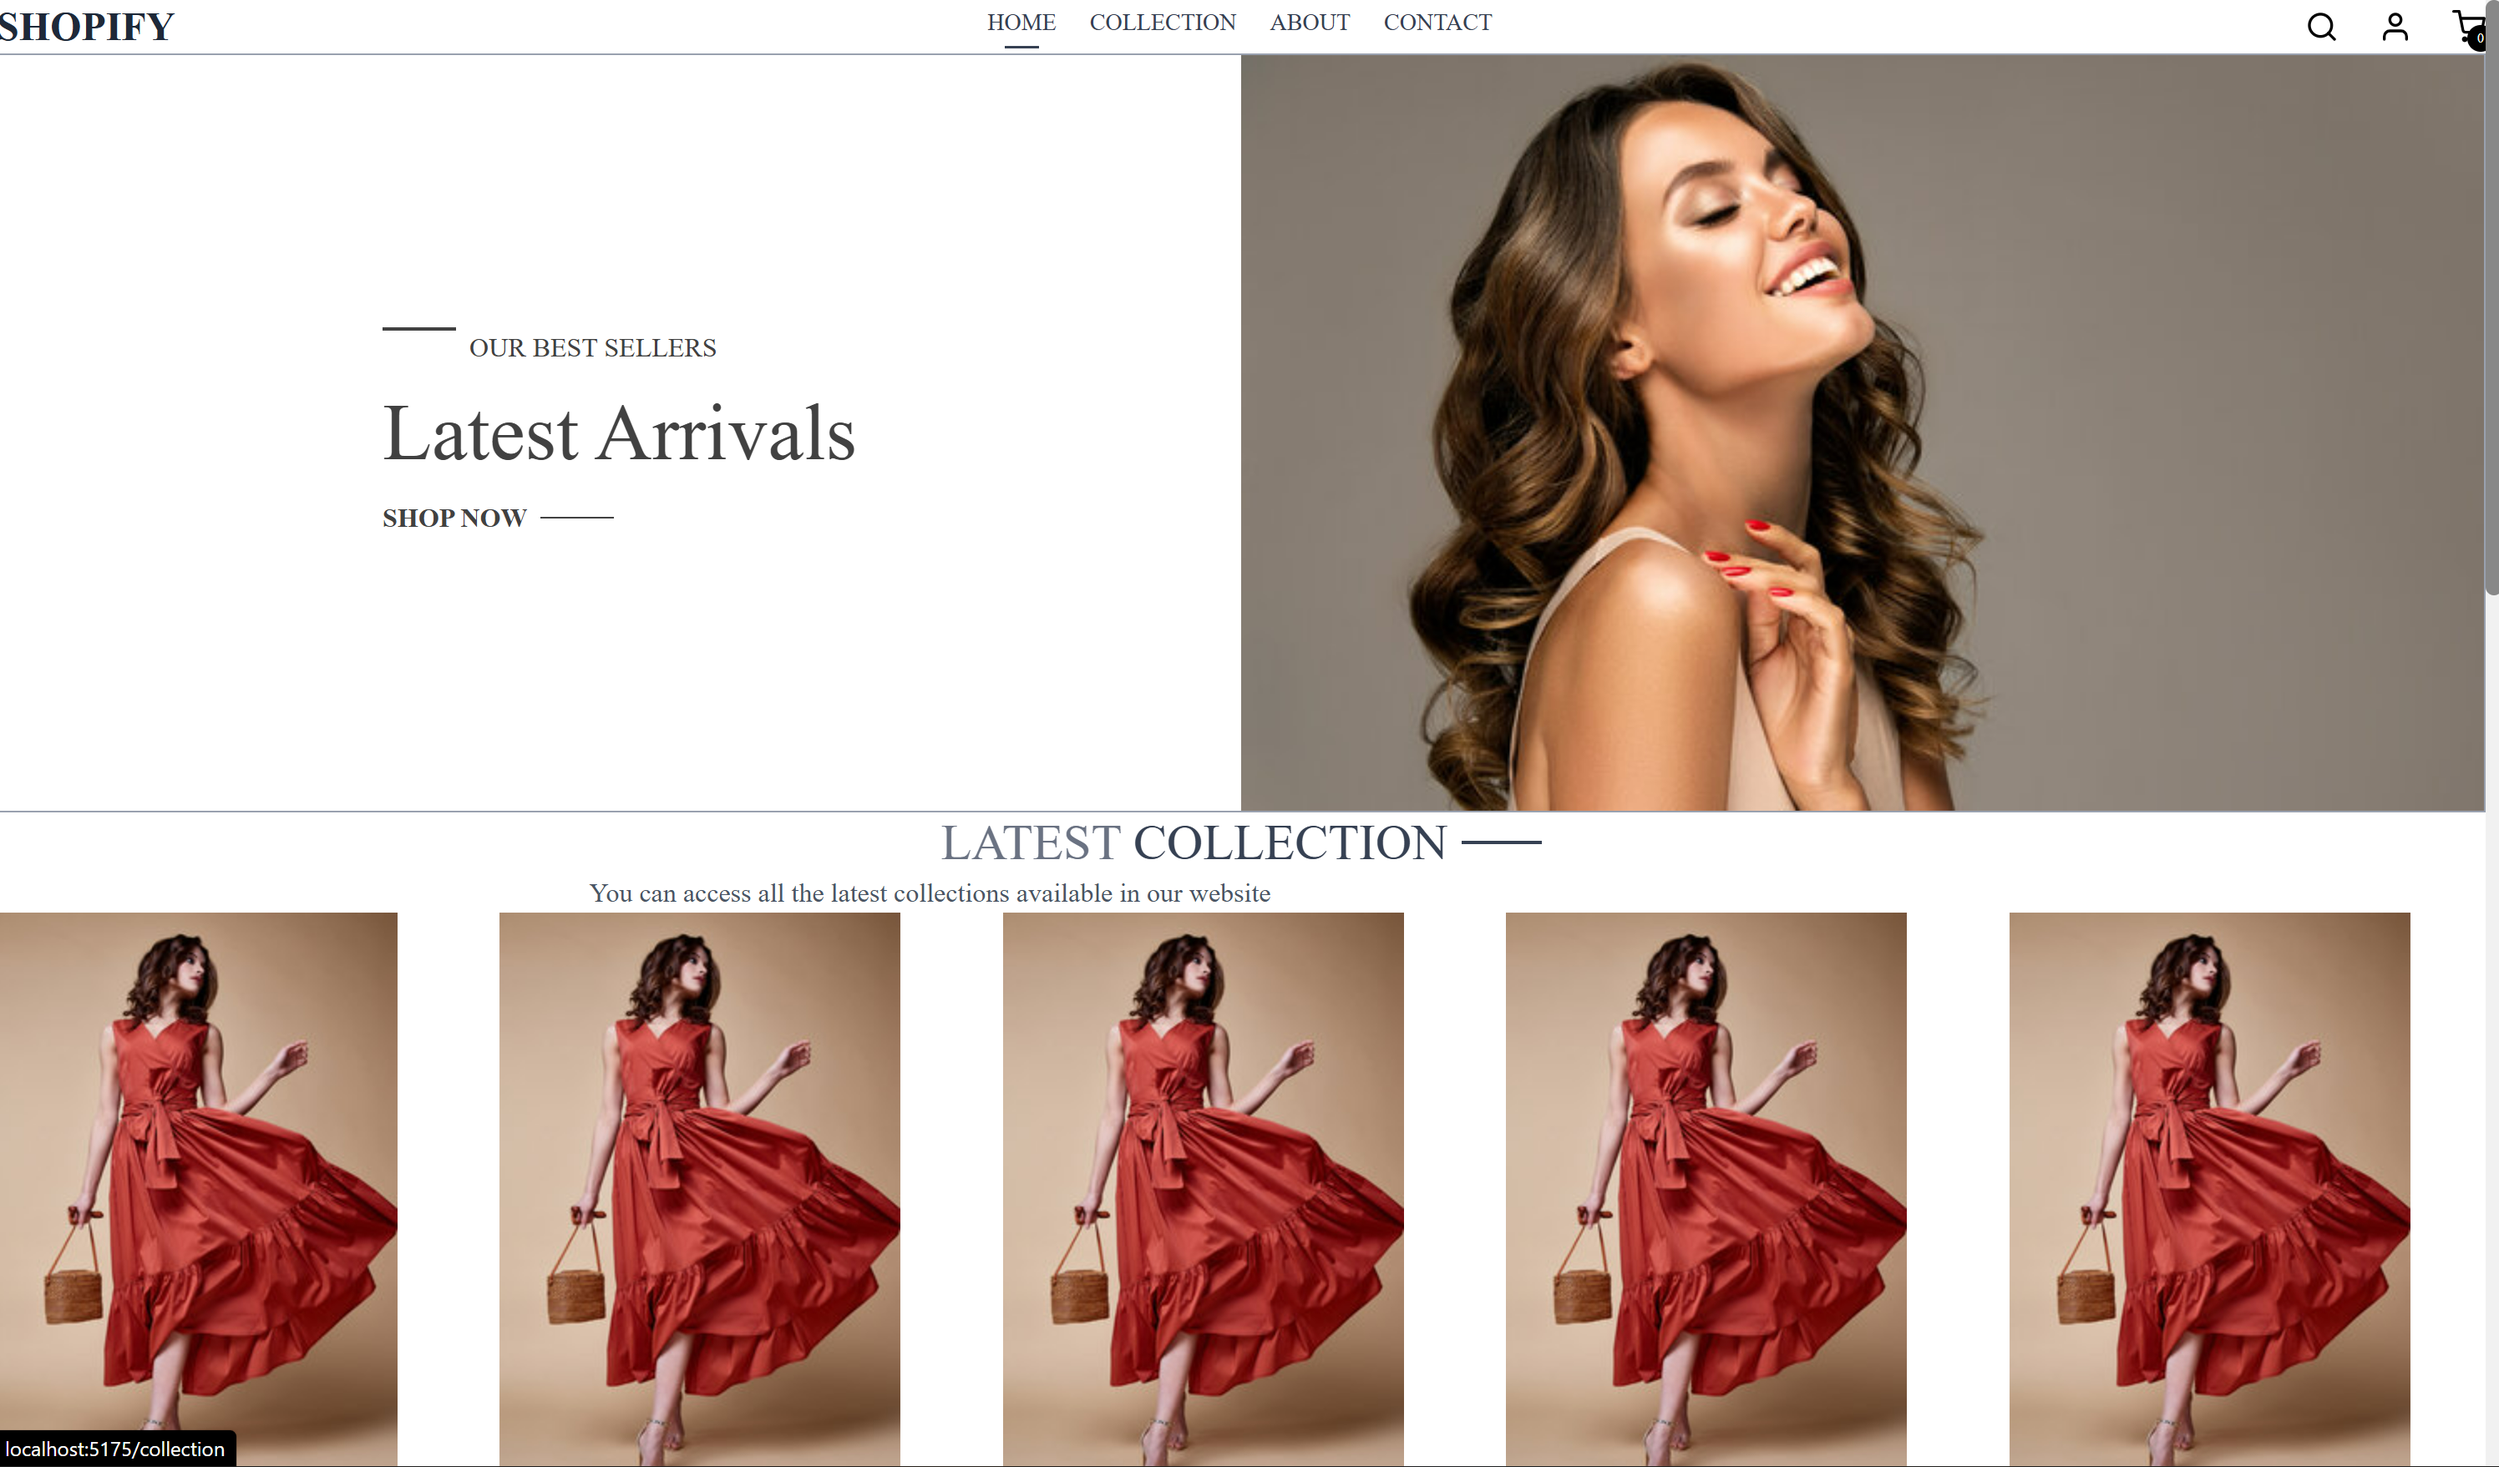
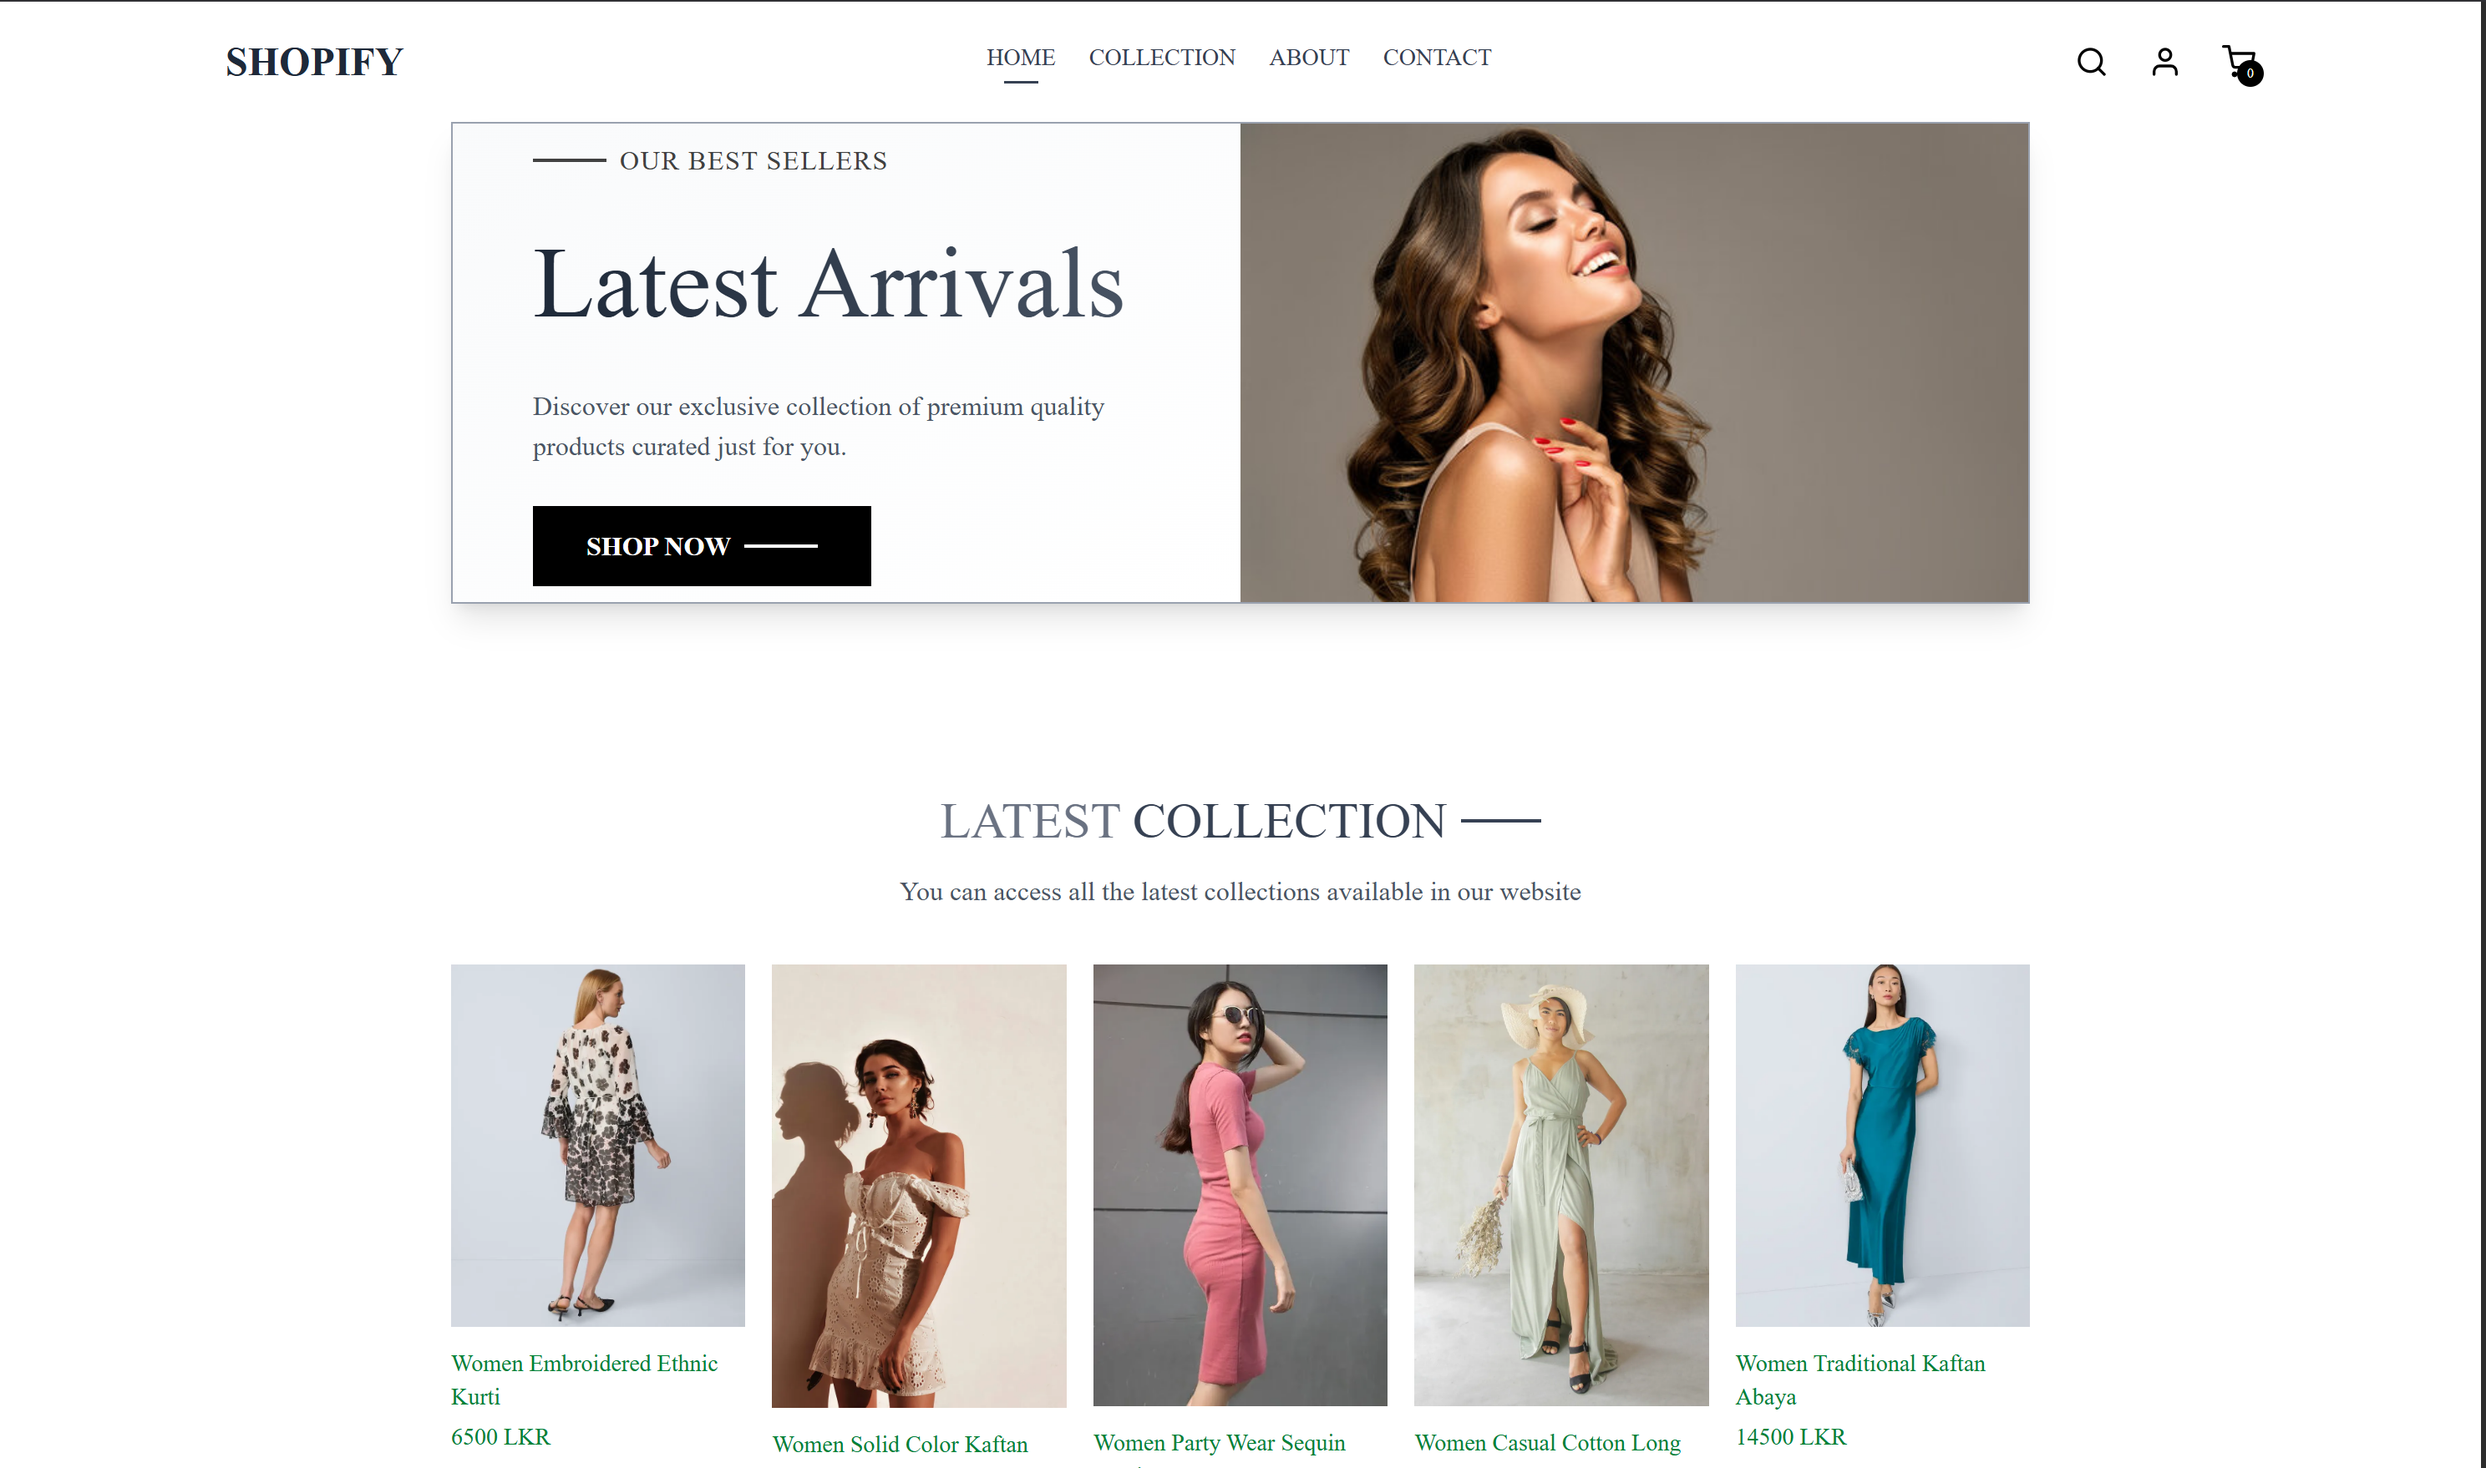
update e-commerce project demo link and screenshot

diff --git a/backend/utility/seed.js b/backend/utility/seed.js
@@ -124,7 +124,7 @@ const seedData = async () => {
           "Cloudinary",
         ],
         githubLink: "https://github.com/Jbenash/E-Commerce-App",
-        demoLink: "https://shopify-demo.onrender.com", // Placeholder
+        demoLink: "https://e-commerce-app-frontend-tau.vercel.app/",
         screenshot:
           "https://myportfolio-1-5p8z.onrender.com/uploads/images/E-Commerce.png",
         featured: true,
